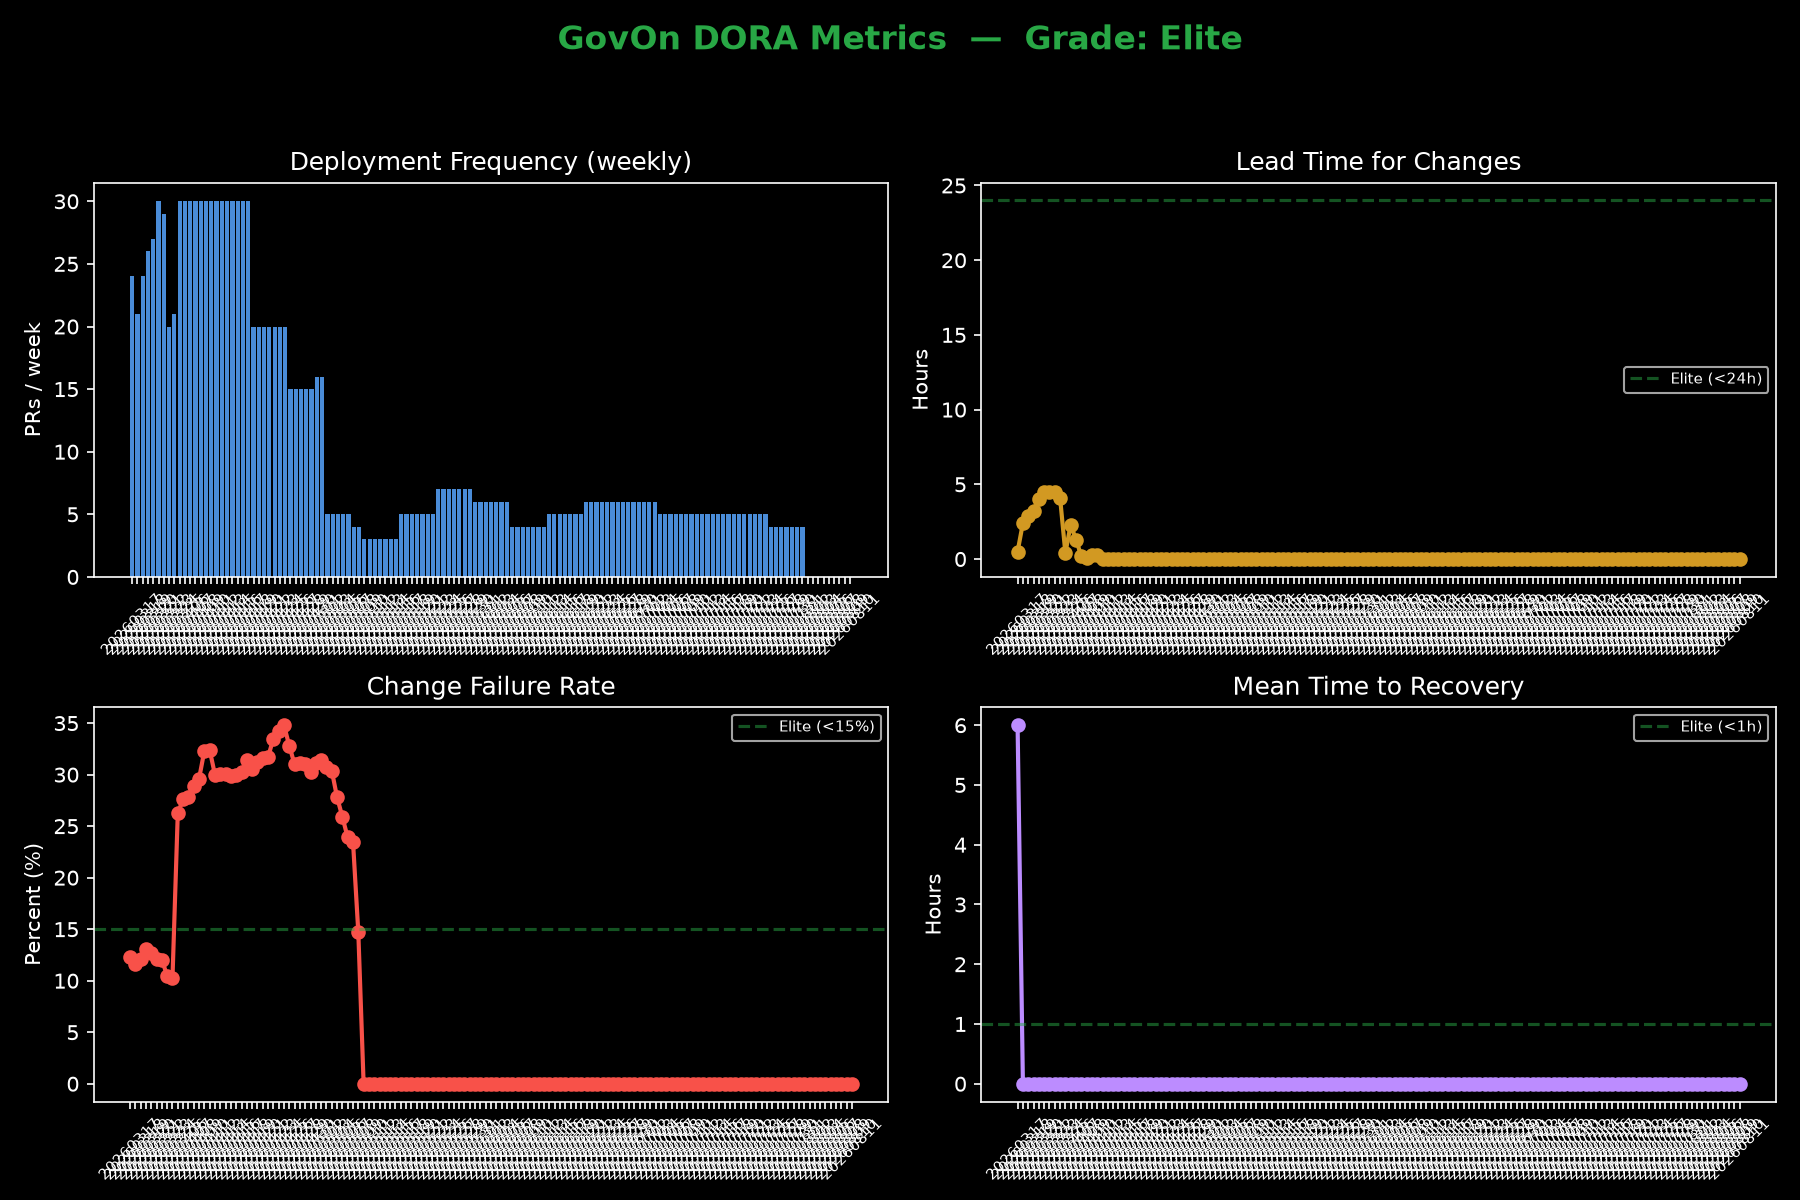
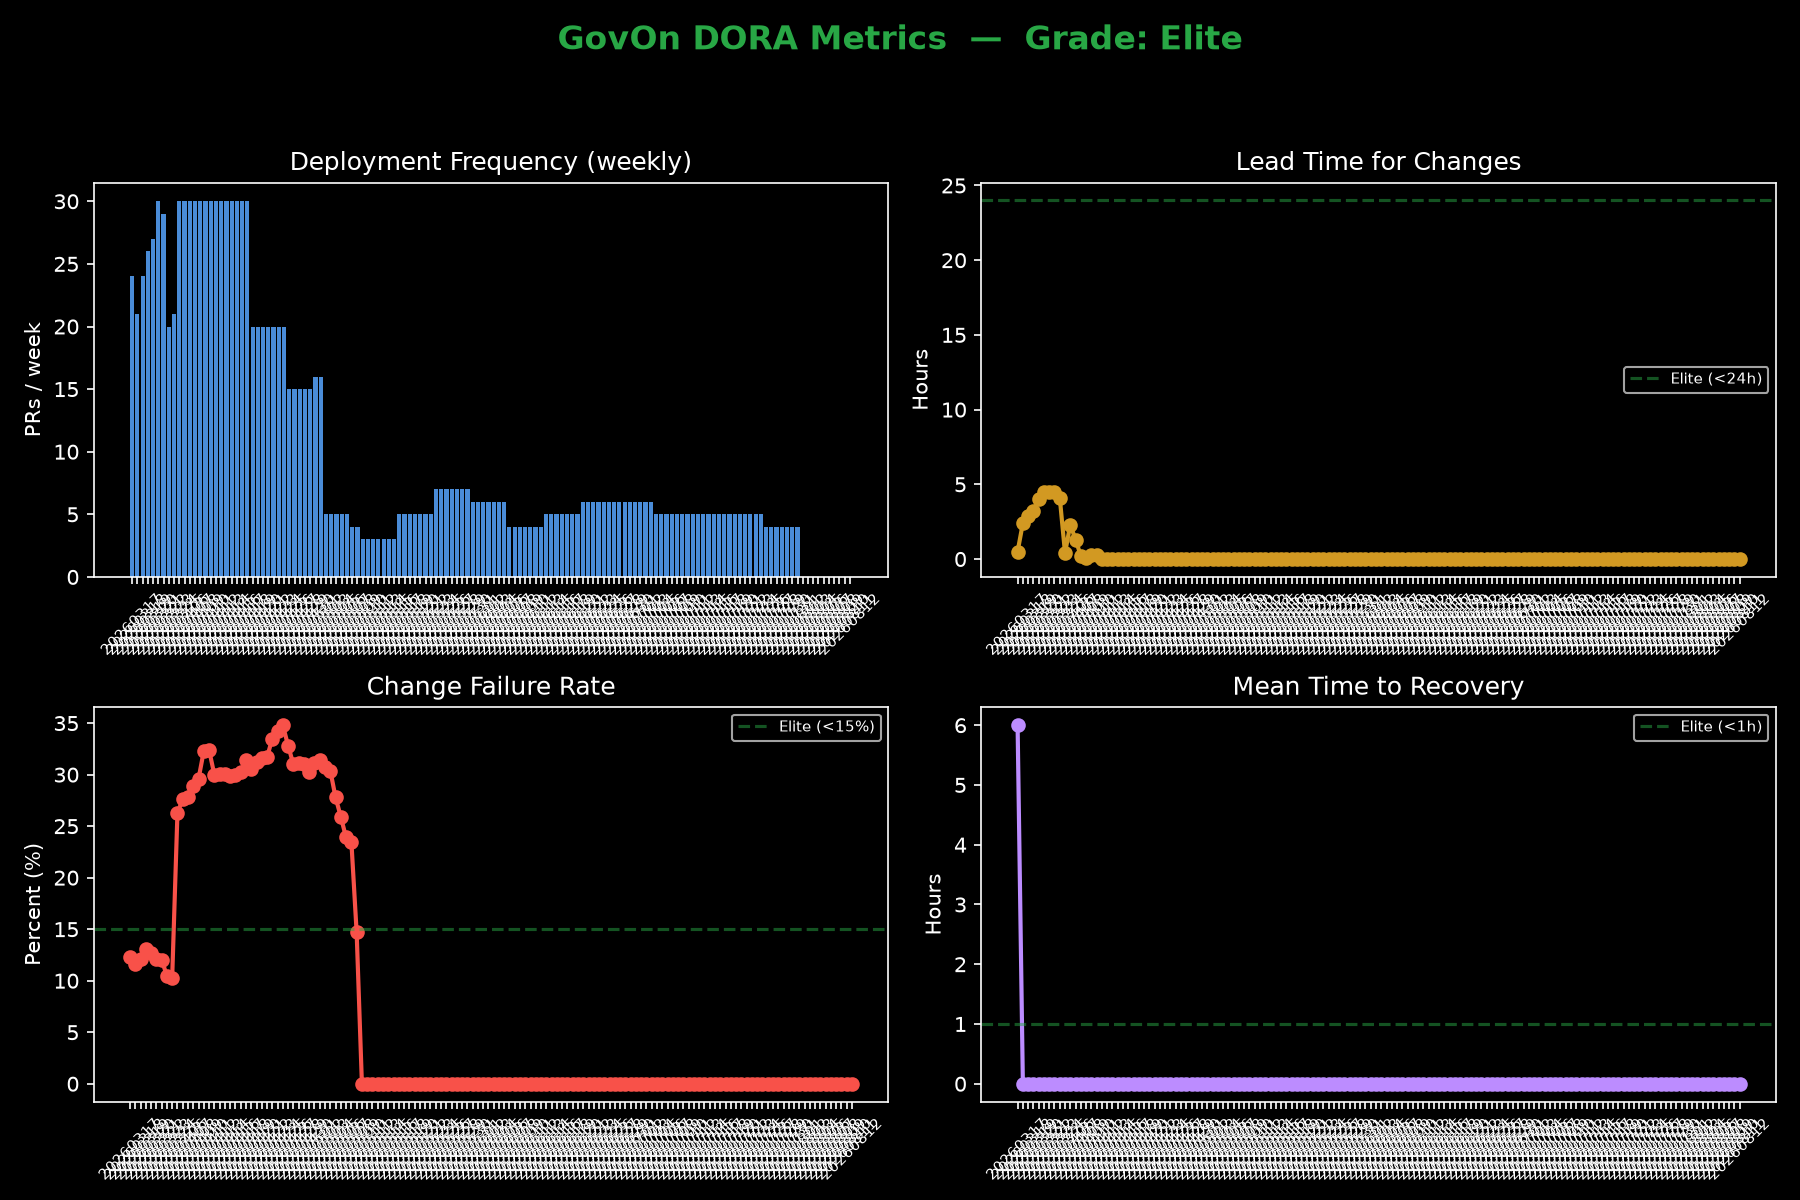
chore: DORA metrics collection, report generation and badge update 2026-08-12 [skip ci]

diff --git a/metrics/reports/latest-dora.html b/metrics/reports/latest-dora.html
@@ -141,11 +141,11 @@
 </table>
 
 <script>
-const labels = ["20260317", "20260318", "20260319", "20260320", "20260321", "20260322", "20260323", "20260324", "20260325", "20260406", "20260407", "20260408", "20260409", "20260410", "20260411", "20260412", "20260413", "20260414", "20260415", "20260416", "20260417", "20260418", "20260419", "20260420", "20260421", "20260422", "20260423", "20260424", "20260425", "20260426", "20260427", "20260428", "20260429", "20260430", "20260501", "20260502", "20260503", "20260504", "20260505", "20260506", "20260507", "20260508", "20260509", "20260510", "20260511", "20260512", "20260513", "20260514", "20260515", "20260516", "20260517", "20260518", "20260519", "20260520", "20260521", "20260522", "20260523", "20260524", "20260525", "20260526", "20260527", "20260528", "20260529", "20260530", "20260531", "20260601", "20260602", "20260603", "20260604", "20260605", "20260606", "20260607", "20260608", "20260609", "20260610", "20260611", "20260612", "20260613", "20260614", "20260615", "20260616", "20260617", "20260618", "20260619", "20260620", "20260621", "20260622", "20260623", "20260624", "20260625", "20260626", "20260627", "20260628", "20260629", "20260630", "20260701", "20260702", "20260703", "20260704", "20260705", "20260706", "20260707", "20260708", "20260709", "20260710", "20260711", "20260712", "20260713", "20260714", "20260715", "20260716", "20260717", "20260718", "20260719", "20260720", "20260721", "20260722", "20260723", "20260724", "20260725", "20260726", "20260727", "20260728", "20260729", "20260730", "20260731", "20260801", "20260802", "20260803", "20260804", "20260805", "20260806", "20260807", "20260808", "20260809", "20260810", "20260811"];
-const dfData = [24.0, 21.0, 24.0, 26.0, 27.0, 30.0, 29.0, 20.0, 21.0, 30.0, 30.0, 30.0, 30.0, 30.0, 30.0, 30.0, 30.0, 30.0, 30.0, 30.0, 30.0, 30.0, 30.0, 20.0, 20.0, 20.0, 20.0, 20.0, 20.0, 20.0, 15.0, 15.0, 15.0, 15.0, 15.0, 16.0, 16.0, 5.0, 5.0, 5.0, 5.0, 5.0, 4.0, 4.0, 3.0, 3.0, 3.0, 3.0, 3.0, 3.0, 3.0, 5.0, 5.0, 5.0, 5.0, 5.0, 5.0, 5.0, 7.0, 7.0, 7.0, 7.0, 7.0, 7.0, 7.0, 6.0, 6.0, 6.0, 6.0, 6.0, 6.0, 6.0, 4.0, 4.0, 4.0, 4.0, 4.0, 4.0, 4.0, 5.0, 5.0, 5.0, 5.0, 5.0, 5.0, 5.0, 6.0, 6.0, 6.0, 6.0, 6.0, 6.0, 6.0, 6.0, 6.0, 6.0, 6.0, 6.0, 6.0, 6.0, 5.0, 5.0, 5.0, 5.0, 5.0, 5.0, 5.0, 5.0, 5.0, 5.0, 5.0, 5.0, 5.0, 5.0, 5.0, 5.0, 5.0, 5.0, 5.0, 5.0, 5.0, 4.0, 4.0, 4.0, 4.0, 4.0, 4.0, 4.0, 0.0, 0.0, 0.0, 0.0, 0.0, 0.0, 0.0, 0.0, 0.0];
-const ltData = [0.5, 2.4, 2.9, 3.2, 4.0, 4.5, 4.5, 4.5, 4.1, 0.4, 2.3, 1.3, 0.2, 0.1, 0.3, 0.3, 0.0, 0.0, 0.0, 0.0, 0.0, 0.0, 0.0, 0.0, 0.0, 0.0, 0.0, 0.0, 0.0, 0.0, 0.0, 0.0, 0.0, 0.0, 0.0, 0.0, 0.0, 0.0, 0.0, 0.0, 0.0, 0.0, 0.0, 0.0, 0.0, 0.0, 0.0, 0.0, 0.0, 0.0, 0.0, 0.0, 0.0, 0.0, 0.0, 0.0, 0.0, 0.0, 0.0, 0.0, 0.0, 0.0, 0.0, 0.0, 0.0, 0.0, 0.0, 0.0, 0.0, 0.0, 0.0, 0.0, 0.0, 0.0, 0.0, 0.0, 0.0, 0.0, 0.0, 0.0, 0.0, 0.0, 0.0, 0.0, 0.0, 0.0, 0.0, 0.0, 0.0, 0.0, 0.0, 0.0, 0.0, 0.0, 0.0, 0.0, 0.0, 0.0, 0.0, 0.0, 0.0, 0.0, 0.0, 0.0, 0.0, 0.0, 0.0, 0.0, 0.0, 0.0, 0.0, 0.0, 0.0, 0.0, 0.0, 0.0, 0.0, 0.0, 0.0, 0.0, 0.0, 0.0, 0.0, 0.0, 0.0, 0.0, 0.0, 0.0, 0.0, 0.0, 0.0, 0.0, 0.0, 0.0, 0.0, 0.0, 0.0];
-const cfrData = [12.3, 11.6, 12.1, 13.1, 12.7, 12.1, 12.0, 10.5, 10.3, 26.3, 27.6, 27.8, 28.9, 29.6, 32.3, 32.4, 30.0, 30.1, 30.1, 29.9, 30.0, 30.3, 31.4, 30.5, 31.2, 31.6, 31.7, 33.5, 34.2, 34.8, 32.8, 31.0, 31.1, 31.0, 30.3, 31.1, 31.4, 30.7, 30.4, 27.8, 25.9, 23.9, 23.5, 14.7, 0.0, 0.0, 0.0, 0.0, 0.0, 0.0, 0.0, 0.0, 0.0, 0.0, 0.0, 0.0, 0.0, 0.0, 0.0, 0.0, 0.0, 0.0, 0.0, 0.0, 0.0, 0.0, 0.0, 0.0, 0.0, 0.0, 0.0, 0.0, 0.0, 0.0, 0.0, 0.0, 0.0, 0.0, 0.0, 0.0, 0.0, 0.0, 0.0, 0.0, 0.0, 0.0, 0.0, 0.0, 0.0, 0.0, 0.0, 0.0, 0.0, 0.0, 0.0, 0.0, 0.0, 0.0, 0.0, 0.0, 0.0, 0.0, 0.0, 0.0, 0.0, 0.0, 0.0, 0.0, 0.0, 0.0, 0.0, 0.0, 0.0, 0.0, 0.0, 0.0, 0.0, 0.0, 0.0, 0.0, 0.0, 0.0, 0.0, 0.0, 0.0, 0.0, 0.0, 0.0, 0.0, 0.0, 0.0, 0.0, 0.0, 0.0, 0.0, 0.0, 0.0];
-const mttrData = [6.0, 0.0, 0.0, 0.0, 0.0, 0.0, 0.0, 0.0, 0.0, 0.0, 0.0, 0.0, 0.0, 0.0, 0.0, 0.0, 0.0, 0.0, 0.0, 0.0, 0.0, 0.0, 0.0, 0.0, 0.0, 0.0, 0.0, 0.0, 0.0, 0.0, 0.0, 0.0, 0.0, 0.0, 0.0, 0.0, 0.0, 0.0, 0.0, 0.0, 0.0, 0.0, 0.0, 0.0, 0.0, 0.0, 0.0, 0.0, 0.0, 0.0, 0.0, 0.0, 0.0, 0.0, 0.0, 0.0, 0.0, 0.0, 0.0, 0.0, 0.0, 0.0, 0.0, 0.0, 0.0, 0.0, 0.0, 0.0, 0.0, 0.0, 0.0, 0.0, 0.0, 0.0, 0.0, 0.0, 0.0, 0.0, 0.0, 0.0, 0.0, 0.0, 0.0, 0.0, 0.0, 0.0, 0.0, 0.0, 0.0, 0.0, 0.0, 0.0, 0.0, 0.0, 0.0, 0.0, 0.0, 0.0, 0.0, 0.0, 0.0, 0.0, 0.0, 0.0, 0.0, 0.0, 0.0, 0.0, 0.0, 0.0, 0.0, 0.0, 0.0, 0.0, 0.0, 0.0, 0.0, 0.0, 0.0, 0.0, 0.0, 0.0, 0.0, 0.0, 0.0, 0.0, 0.0, 0.0, 0.0, 0.0, 0.0, 0.0, 0.0, 0.0, 0.0, 0.0, 0.0];
+const labels = ["20260317", "20260318", "20260319", "20260320", "20260321", "20260322", "20260323", "20260324", "20260325", "20260406", "20260407", "20260408", "20260409", "20260410", "20260411", "20260412", "20260413", "20260414", "20260415", "20260416", "20260417", "20260418", "20260419", "20260420", "20260421", "20260422", "20260423", "20260424", "20260425", "20260426", "20260427", "20260428", "20260429", "20260430", "20260501", "20260502", "20260503", "20260504", "20260505", "20260506", "20260507", "20260508", "20260509", "20260510", "20260511", "20260512", "20260513", "20260514", "20260515", "20260516", "20260517", "20260518", "20260519", "20260520", "20260521", "20260522", "20260523", "20260524", "20260525", "20260526", "20260527", "20260528", "20260529", "20260530", "20260531", "20260601", "20260602", "20260603", "20260604", "20260605", "20260606", "20260607", "20260608", "20260609", "20260610", "20260611", "20260612", "20260613", "20260614", "20260615", "20260616", "20260617", "20260618", "20260619", "20260620", "20260621", "20260622", "20260623", "20260624", "20260625", "20260626", "20260627", "20260628", "20260629", "20260630", "20260701", "20260702", "20260703", "20260704", "20260705", "20260706", "20260707", "20260708", "20260709", "20260710", "20260711", "20260712", "20260713", "20260714", "20260715", "20260716", "20260717", "20260718", "20260719", "20260720", "20260721", "20260722", "20260723", "20260724", "20260725", "20260726", "20260727", "20260728", "20260729", "20260730", "20260731", "20260801", "20260802", "20260803", "20260804", "20260805", "20260806", "20260807", "20260808", "20260809", "20260810", "20260811", "20260812"];
+const dfData = [24.0, 21.0, 24.0, 26.0, 27.0, 30.0, 29.0, 20.0, 21.0, 30.0, 30.0, 30.0, 30.0, 30.0, 30.0, 30.0, 30.0, 30.0, 30.0, 30.0, 30.0, 30.0, 30.0, 20.0, 20.0, 20.0, 20.0, 20.0, 20.0, 20.0, 15.0, 15.0, 15.0, 15.0, 15.0, 16.0, 16.0, 5.0, 5.0, 5.0, 5.0, 5.0, 4.0, 4.0, 3.0, 3.0, 3.0, 3.0, 3.0, 3.0, 3.0, 5.0, 5.0, 5.0, 5.0, 5.0, 5.0, 5.0, 7.0, 7.0, 7.0, 7.0, 7.0, 7.0, 7.0, 6.0, 6.0, 6.0, 6.0, 6.0, 6.0, 6.0, 4.0, 4.0, 4.0, 4.0, 4.0, 4.0, 4.0, 5.0, 5.0, 5.0, 5.0, 5.0, 5.0, 5.0, 6.0, 6.0, 6.0, 6.0, 6.0, 6.0, 6.0, 6.0, 6.0, 6.0, 6.0, 6.0, 6.0, 6.0, 5.0, 5.0, 5.0, 5.0, 5.0, 5.0, 5.0, 5.0, 5.0, 5.0, 5.0, 5.0, 5.0, 5.0, 5.0, 5.0, 5.0, 5.0, 5.0, 5.0, 5.0, 4.0, 4.0, 4.0, 4.0, 4.0, 4.0, 4.0, 0.0, 0.0, 0.0, 0.0, 0.0, 0.0, 0.0, 0.0, 0.0, 0.0];
+const ltData = [0.5, 2.4, 2.9, 3.2, 4.0, 4.5, 4.5, 4.5, 4.1, 0.4, 2.3, 1.3, 0.2, 0.1, 0.3, 0.3, 0.0, 0.0, 0.0, 0.0, 0.0, 0.0, 0.0, 0.0, 0.0, 0.0, 0.0, 0.0, 0.0, 0.0, 0.0, 0.0, 0.0, 0.0, 0.0, 0.0, 0.0, 0.0, 0.0, 0.0, 0.0, 0.0, 0.0, 0.0, 0.0, 0.0, 0.0, 0.0, 0.0, 0.0, 0.0, 0.0, 0.0, 0.0, 0.0, 0.0, 0.0, 0.0, 0.0, 0.0, 0.0, 0.0, 0.0, 0.0, 0.0, 0.0, 0.0, 0.0, 0.0, 0.0, 0.0, 0.0, 0.0, 0.0, 0.0, 0.0, 0.0, 0.0, 0.0, 0.0, 0.0, 0.0, 0.0, 0.0, 0.0, 0.0, 0.0, 0.0, 0.0, 0.0, 0.0, 0.0, 0.0, 0.0, 0.0, 0.0, 0.0, 0.0, 0.0, 0.0, 0.0, 0.0, 0.0, 0.0, 0.0, 0.0, 0.0, 0.0, 0.0, 0.0, 0.0, 0.0, 0.0, 0.0, 0.0, 0.0, 0.0, 0.0, 0.0, 0.0, 0.0, 0.0, 0.0, 0.0, 0.0, 0.0, 0.0, 0.0, 0.0, 0.0, 0.0, 0.0, 0.0, 0.0, 0.0, 0.0, 0.0, 0.0];
+const cfrData = [12.3, 11.6, 12.1, 13.1, 12.7, 12.1, 12.0, 10.5, 10.3, 26.3, 27.6, 27.8, 28.9, 29.6, 32.3, 32.4, 30.0, 30.1, 30.1, 29.9, 30.0, 30.3, 31.4, 30.5, 31.2, 31.6, 31.7, 33.5, 34.2, 34.8, 32.8, 31.0, 31.1, 31.0, 30.3, 31.1, 31.4, 30.7, 30.4, 27.8, 25.9, 23.9, 23.5, 14.7, 0.0, 0.0, 0.0, 0.0, 0.0, 0.0, 0.0, 0.0, 0.0, 0.0, 0.0, 0.0, 0.0, 0.0, 0.0, 0.0, 0.0, 0.0, 0.0, 0.0, 0.0, 0.0, 0.0, 0.0, 0.0, 0.0, 0.0, 0.0, 0.0, 0.0, 0.0, 0.0, 0.0, 0.0, 0.0, 0.0, 0.0, 0.0, 0.0, 0.0, 0.0, 0.0, 0.0, 0.0, 0.0, 0.0, 0.0, 0.0, 0.0, 0.0, 0.0, 0.0, 0.0, 0.0, 0.0, 0.0, 0.0, 0.0, 0.0, 0.0, 0.0, 0.0, 0.0, 0.0, 0.0, 0.0, 0.0, 0.0, 0.0, 0.0, 0.0, 0.0, 0.0, 0.0, 0.0, 0.0, 0.0, 0.0, 0.0, 0.0, 0.0, 0.0, 0.0, 0.0, 0.0, 0.0, 0.0, 0.0, 0.0, 0.0, 0.0, 0.0, 0.0, 0.0];
+const mttrData = [6.0, 0.0, 0.0, 0.0, 0.0, 0.0, 0.0, 0.0, 0.0, 0.0, 0.0, 0.0, 0.0, 0.0, 0.0, 0.0, 0.0, 0.0, 0.0, 0.0, 0.0, 0.0, 0.0, 0.0, 0.0, 0.0, 0.0, 0.0, 0.0, 0.0, 0.0, 0.0, 0.0, 0.0, 0.0, 0.0, 0.0, 0.0, 0.0, 0.0, 0.0, 0.0, 0.0, 0.0, 0.0, 0.0, 0.0, 0.0, 0.0, 0.0, 0.0, 0.0, 0.0, 0.0, 0.0, 0.0, 0.0, 0.0, 0.0, 0.0, 0.0, 0.0, 0.0, 0.0, 0.0, 0.0, 0.0, 0.0, 0.0, 0.0, 0.0, 0.0, 0.0, 0.0, 0.0, 0.0, 0.0, 0.0, 0.0, 0.0, 0.0, 0.0, 0.0, 0.0, 0.0, 0.0, 0.0, 0.0, 0.0, 0.0, 0.0, 0.0, 0.0, 0.0, 0.0, 0.0, 0.0, 0.0, 0.0, 0.0, 0.0, 0.0, 0.0, 0.0, 0.0, 0.0, 0.0, 0.0, 0.0, 0.0, 0.0, 0.0, 0.0, 0.0, 0.0, 0.0, 0.0, 0.0, 0.0, 0.0, 0.0, 0.0, 0.0, 0.0, 0.0, 0.0, 0.0, 0.0, 0.0, 0.0, 0.0, 0.0, 0.0, 0.0, 0.0, 0.0, 0.0, 0.0];
 const radarData = [0.0, 100, 100, 100];
 
 const isDark = window.matchMedia('(prefers-color-scheme: dark)').matches;

diff --git a/metrics/reports/weekly-20260812.md b/metrics/reports/weekly-20260812.md
@@ -1,0 +1,22 @@
+# GovOn DORA Metrics Weekly Report
+
+> 생성일: 2026-08-12 | 기간: 최근 30일 | 브랜치: main
+
+## 종합 등급: Elite
+
+| 지표 | 현재 | 이전 | 변화 | Elite 기준 |
+|------|------|------|------|-----------|
+| 배포 빈도 | 주 0.0건 | 주 0.0건 | - | 일 1회+ |
+| 리드 타임 | 0.0h | 0.0h | - | < 24h |
+| 변경 실패율 | 0.0% | 0.0% | - | < 15% |
+| MTTR | 0.0h | 0.0h | - | < 1h |
+
+## 대시보드
+
+- [Grafana 실시간](https://umyunsang.grafana.net/d/govon-dora/govon-dora-metrics-dashboard?orgId=1&from=now-7d&to=now&timezone=Asia%2FSeoul)
+- [Chart.js 보고서](latest-dora.html)
+
+## 수집 방식
+- GitHub Actions: `.github/workflows/dora-metrics.yml`
+- 주기: 매주 월요일 09:00 KST + main push 시
+- 데이터: `metrics/dora/dora-YYYYMMDD.json`
